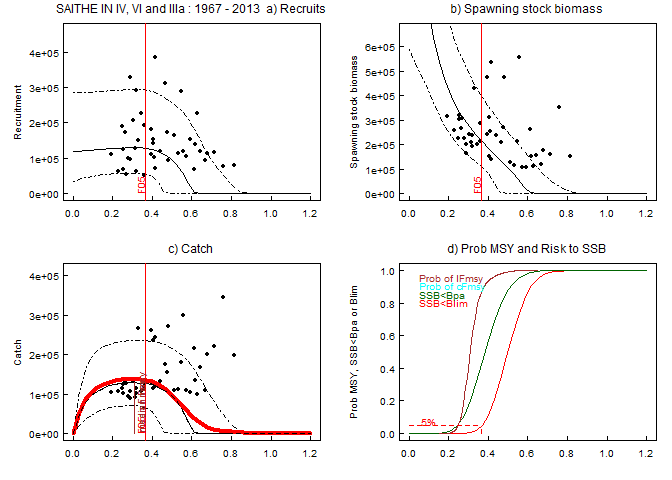
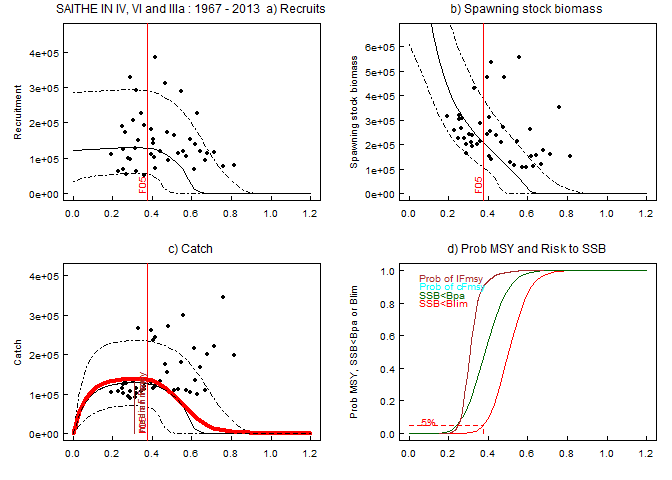
formatting readme and add set seed

diff --git a/README.md b/README.md
@@ -23,17 +23,17 @@ You are welcome to:
 
 # Preamble
 
-This document is as much as the `msy`-package itself still in
-developement.
+This document is as much as the `msy`-package itself a living document.
 
 The origin of this package is from an intial coding by John Simmonds
 which was restructured by Colin Millar into an R-package with additional
 development, including coding the Buckland method. Einar Hjörleifsson
 compartmentalized the structure of the code as well as providing the
-output of the analysis in a more structured format.
+output of the analysis in a more structured format. Further
+contributions have been made by Carmen Fernandez, Max Cardinale, Martin
+Pastoors and Niels Hintzen.
 
-At this moment there is no person responsible for the maintenance of the
-package, including the above mentioned names.
+The package is currently being maintianed by the ICES secretariat.
 
 # Installation
 
@@ -125,17 +125,19 @@ This can be done in one go with the following code:
 
 ``` r
 FIT <- eqsr_fit(icesStocks$saiNS,
-                nsamp = 1000,
-                models = c("Ricker", "Segreg"))
+  nsamp = 1000,
+  models = c("Ricker", "Segreg")
+)
 SIM <- eqsim_run(FIT,
-                 bio.years = c(2004, 2013),
-                 sel.years = c(2004, 2013),
-                 Fcv = 0.24,
-                 Fphi = 0.42,
-                 Blim = 106000,
-                 Bpa = 200000,
-                 Fscan = seq(0, 1.2, len = 40),
-                 verbose = FALSE)
+  bio.years = c(2004, 2013),
+  sel.years = c(2004, 2013),
+  Fcv = 0.24,
+  Fphi = 0.42,
+  Blim = 106000,
+  Bpa = 200000,
+  Fscan = seq(0, 1.2, len = 40),
+  verbose = FALSE
+)
 ```
 
 The stock recruitment function can be plotted by:
@@ -146,28 +148,27 @@ eqsr_plot(FIT,n=2e4)
 
 ![](README_files/figure-gfm/plot_fit-1.png)<!-- -->
 
-Summary of the key results can be obtained
-by:
+Summary of the key results can be obtained by:
 
 ``` r
 SIM$Refs
 ```
 
 ``` 
-                  F05          F10          F50    medianMSY      meanMSY
-catF     3.675774e-01 3.940308e-01 4.990954e-01 3.076923e-01 3.076923e-01
-lanF               NA           NA           NA 3.076923e-01 3.076923e-01
-catch    1.265605e+05 1.239753e+05 9.571695e+04 1.284774e+05 1.284774e+05
-landings           NA           NA           NA 1.284774e+05 1.284774e+05
-catB     2.126939e+05 1.909209e+05 1.057146e+05 2.684618e+05 2.684618e+05
-lanB               NA           NA           NA 2.684618e+05 2.684618e+05
-             FCrash05     FCrash50
-catF     4.923077e-01    0.6153846
-lanF               NA           NA
-catch    9.907078e+04 3703.8785837
-landings           NA           NA
-catB     1.113816e+05 3091.0668735
-lanB               NA           NA
+                  F05          F10          F50    medianMSY      meanMSY     FCrash05
+catF     3.745647e-01 4.026805e-01 5.044966e-01 3.076923e-01 3.076923e-01 4.923077e-01
+lanF               NA           NA           NA 3.076923e-01 3.076923e-01           NA
+catch    1.269144e+05 1.240353e+05 9.676671e+04 1.291093e+05 1.291093e+05 1.019306e+05
+landings           NA           NA           NA 1.291093e+05 1.291093e+05           NA
+catB     2.070386e+05 1.842420e+05 1.058974e+05 2.685973e+05 2.685973e+05 1.150066e+05
+lanB               NA           NA           NA 2.685973e+05 2.685973e+05           NA
+             FCrash50
+catF        0.6461538
+lanF               NA
+catch    1986.8567802
+landings           NA
+catB     1551.6680629
+lanB               NA
 ```
 
 Summary plots conditioned on maximizing **catch** are obtained by:
@@ -222,15 +223,14 @@ long as the bootstrap resampling procedure provides an adequate
 approximation to the empirical distribution of the stock and recruit
 pairs.
 
-The arguments to the fitting function
-    are
+The arguments to the fitting function are
 
 ``` r
 args(eqsr_fit)
 ```
 
-    function (stk, nsamp = 5000, models = c("Ricker", "Segreg", "Bevholt"), 
-        id.sr = FLCore::name(stk), remove.years = NULL) 
+    function (stk, nsamp = 1000, models = c("Ricker", "Segreg", "Bevholt"), 
+        id.sr = FLCore::name(stk), remove.years = NULL, rshift = 0) 
     NULL
 
 Here:
@@ -252,28 +252,29 @@ The results from the fitting process are returned to the user as a list:
 str(FIT, 2, give.attr=FALSE)
 ```
 
-    List of 6
+    List of 5
      $ sr.sto:'data.frame': 1000 obs. of  4 variables:
-      ..$ a    : num [1:1000] 0.872 1.001 1.157 1.172 1.429 ...
-      ..$ b.b  : num [1:1000] 164413 126196 106372 111533 88874 ...
-      ..$ cv   : num [1:1000] 0.494 0.51 0.46 0.565 0.462 ...
-      ..$ model: chr [1:1000] "Segreg" "Segreg" "Segreg" "Segreg" ...
-     $ sr.det:'data.frame': 2 obs. of  6 variables:
+      ..$ a    : num [1:1000] 1.16 1.603 1.034 2.147 0.919 ...
+      ..$ b    : num [1:1000] 9.59e+04 8.70e+04 1.28e+05 5.40e-06 1.59e+05 ...
+      ..$ cv   : num [1:1000] 0.475 0.502 0.435 0.48 0.503 ...
+      ..$ model: chr [1:1000] "Segreg" "Segreg" "Segreg" "Ricker" ...
+     $ sr.det:'data.frame': 2 obs. of  7 variables:
       ..$ a    : num [1:2] 1.44 1.21
       ..$ b    : num [1:2] 3.74e-06 1.06e+05
       ..$ cv   : num [1:2] 0.521 0.492
+      ..$ llik : num [1:2] -33.7 -31.2
       ..$ model: chr [1:2] "Ricker" "Segreg"
-      ..$ n    : int [1:2] 142 858
-      ..$ prop : num [1:2] 0.142 0.858
-     $ pRec  : num [1:1000, 1:44] 93482 107228 123056 125553 127043 ...
+      ..$ n    : 'table' int [1:2(1d)] 127 873
+      ..$ prop : 'table' num [1:2(1d)] 0.127 0.873
      $ stk   :Formal class 'FLStock' [package "FLCore"] with 20 slots
-     $ rby   :'data.frame': 44 obs. of  7 variables:
+     $ rby   :'data.frame': 44 obs. of  8 variables:
       ..$ year        : int [1:44] 1967 1968 1969 1970 1971 1972 1973 1974 1975 1976 ...
       ..$ rec         : num [1:44] 291836 327932 171373 152852 148741 ...
       ..$ ssb         : num [1:44] 194228 164413 263979 311949 429606 ...
       ..$ fbar        : num [1:44] 0.322 0.291 0.262 0.408 0.329 ...
       ..$ landings    : num [1:44] 113751 88326 130588 234962 265381 ...
       ..$ catch       : num [1:44] 113751 88326 130588 234962 265381 ...
+      ..$ ssb_lag     : num [1:44] 3 3 3 3 3 3 3 3 3 3 ...
       ..$ remove.years: logi [1:44] FALSE FALSE FALSE FALSE FALSE FALSE ...
      $ id.sr : chr "SAITHE IN IV, VI and IIIa : 1967 - 2013"
 
@@ -301,9 +302,9 @@ FIT$sr.det
 ```
 
 ``` 
-         a            b        cv  model   n  prop
-1 1.443935 3.743708e-06 0.5207246 Ricker 142 0.142
-2 1.212853 1.062150e+05 0.4917162 Segreg 858 0.858
+         a            b        cv      llik  model   n  prop
+1 1.443935 3.743708e-06 0.5207246 -33.72180 Ricker 127 0.127
+2 1.212853 1.062150e+05 0.4917162 -31.19974 Segreg 873 0.873
 ```
 
 Here the a, b and cv are the estimated parameters from the deterministic
@@ -363,8 +364,7 @@ that if there is no variability in these quantities in the stock object
 then no variability will be taken in to the simulations. The user can
 also specify using average values for these parameters.
 
-The arguments to the simulation function
-    are:
+The arguments to the simulation function are:
 
 ``` r
 args(eqsim_run)
@@ -375,7 +375,8 @@ args(eqsim_run)
         sel.const = FALSE, Fscan = seq(0, 2, len = 40), Fcv = 0, 
         Fphi = 0, SSBcv = 0, rhologRec = TRUE, Blim, Bpa, recruitment.trim = c(3, 
             -3), Btrigger = 0, Nrun = 200, process.error = TRUE, 
-        verbose = TRUE, extreme.trim = c(0, 1)) 
+        verbose = TRUE, extreme.trim = c(0, 1), R.initial = mean(fit$rby$rec), 
+        keep.sims = FALSE) 
     NULL
 
 where:
@@ -420,7 +421,7 @@ list
 str(SIM, 2, give.attr = FALSE)
 ```
 
-    List of 11
+    List of 12
      $ ibya         :List of 7
       ..$ Mat  : num [1:8, 1:10] 0 0.15 0.7 0.9 1 1 1 1 0 0.15 ...
       ..$ M    : num [1:8, 1:10] 0.2 0.2 0.2 0.2 0.2 0.2 0.2 0.2 0.2 0.2 ...
@@ -429,45 +430,54 @@ str(SIM, 2, give.attr = FALSE)
       ..$ west : num [1:8, 1:10] 0.964 1.116 1.382 1.74 2.722 ...
       ..$ weca : num [1:8, 1:10] 0.964 1.116 1.382 1.74 2.722 ...
       ..$ sel  : num [1:8, 1:10] 0.315 1.006 1.186 1.493 1.529 ...
-     $ rbya         :List of 1
-      ..$ ferr: num [1:40, 1:50, 1:1000] -0.325 -0.325 -0.325 -0.325 -0.325 ...
-     $ rby          :'data.frame':  44 obs. of  7 variables:
+     $ rbya         :List of 8
+      ..$ ferr    : num [1:40, 1:50, 1:1000] -0.28 -0.28 -0.28 -0.28 -0.28 ...
+      ..$ ssb     : num [1:40, 1:50, 1:1000] 1463551 1095079 854467 690074 573662 ...
+      ..$ catch   : num [1:40, 1:50, 1:1000] 0 26722 43462 54887 63368 ...
+      ..$ landings: num [1:40, 1:50, 1:1000] 0 26722 43462 54887 63368 ...
+      ..$ rec     : num [1:40, 1:50, 1:1000] 142049 142049 142049 142049 142049 ...
+      ..$ srmodels:'data.frame':    1000 obs. of  4 variables:
+      ..$ Ftarget : num [1:40] 0 0.0308 0.0615 0.0923 0.1231 ...
+      ..$ simyears: int [1:50] 151 152 153 154 155 156 157 158 159 160 ...
+     $ rby          :'data.frame':  44 obs. of  8 variables:
       ..$ year        : int [1:44] 1967 1968 1969 1970 1971 1972 1973 1974 1975 1976 ...
       ..$ rec         : num [1:44] 291836 327932 171373 152852 148741 ...
       ..$ ssb         : num [1:44] 194228 164413 263979 311949 429606 ...
       ..$ fbar        : num [1:44] 0.322 0.291 0.262 0.408 0.329 ...
       ..$ landings    : num [1:44] 113751 88326 130588 234962 265381 ...
       ..$ catch       : num [1:44] 113751 88326 130588 234962 265381 ...
+      ..$ ssb_lag     : num [1:44] 3 3 3 3 3 3 3 3 3 3 ...
       ..$ remove.years: logi [1:44] FALSE FALSE FALSE FALSE FALSE FALSE ...
      $ rbp          :'data.frame':  160 obs. of  10 variables:
       ..$ Ftarget : num [1:160] 0 0.0308 0.0615 0.0923 0.1231 ...
       ..$ variable: chr [1:160] "Recruitment" "Recruitment" "Recruitment" "Recruitment" ...
-      ..$ p025    : num [1:160] 24692 30125 34638 38486 41622 ...
-      ..$ p05     : num [1:160] 34543 40566 45020 48304 50920 ...
-      ..$ p25     : num [1:160] 79877 81924 84214 86068 87716 ...
-      ..$ p50     : num [1:160] 119040 120086 121513 122798 124026 ...
-      ..$ p75     : num [1:160] 171945 172446 173249 174338 175417 ...
-      ..$ p95     : num [1:160] 284900 285154 285648 286480 287147 ...
-      ..$ p975    : num [1:160] 334582 334841 335204 336281 337455 ...
+      ..$ p025    : num [1:160] 18891 24962 31631 35952 39827 ...
+      ..$ p05     : num [1:160] 33794 39879 44315 47818 50510 ...
+      ..$ p25     : num [1:160] 83657 85233 86814 88085 89255 ...
+      ..$ p50     : num [1:160] 121748 122725 123805 124943 125985 ...
+      ..$ p75     : num [1:160] 173973 174807 175528 176334 177257 ...
+      ..$ p95     : num [1:160] 286156 286896 287753 289175 289647 ...
+      ..$ p975    : num [1:160] 336886 338161 339625 340201 340736 ...
       ..$ Mean    : num [1:160] NA NA NA NA NA NA NA NA NA NA ...
      $ Blim         : num 106000
      $ Bpa          : num 2e+05
-     $ Refs         : num [1:6, 1:7] 3.68e-01 NA 1.27e+05 NA 2.13e+05 ...
+     $ Refs         : num [1:6, 1:7] 3.75e-01 NA 1.27e+05 NA 2.07e+05 ...
      $ pProfile     :'data.frame':  1104 obs. of  3 variables:
-      ..$ Ftarget : num [1:1104] 0.153 0.154 0.155 0.156 0.157 ...
-      ..$ value   : num [1:1104] 4.23e-07 9.80e-07 1.71e-06 2.65e-06 3.84e-06 ...
+      ..$ Ftarget : num [1:1104] 0.153 0.154 0.156 0.157 0.158 ...
+      ..$ value   : num [1:1104] 4.46e-07 1.04e-06 1.84e-06 2.88e-06 4.23e-06 ...
       ..$ variable: chr [1:1104] "pFmsyCatch" "pFmsyCatch" "pFmsyCatch" "pFmsyCatch" ...
      $ id.sim       : chr "SAITHE IN IV, VI and IIIa : 1967 - 2013"
      $ refs_interval:'data.frame':  1 obs. of  8 variables:
       ..$ FmsyMedianC     : num 0.308
-      ..$ FmsylowerMedianC: num 0.199
-      ..$ FmsyupperMedianC: num 0.404
+      ..$ FmsylowerMedianC: num 0.193
+      ..$ FmsyupperMedianC: num 0.41
       ..$ FmsyMedianL     : num 0.308
-      ..$ FmsylowerMedianL: num 0.199
-      ..$ FmsyupperMedianL: num 0.404
-      ..$ F5percRiskBlim  : num 0.368
+      ..$ FmsylowerMedianL: num 0.193
+      ..$ FmsyupperMedianL: num 0.41
+      ..$ F5percRiskBlim  : num 0.375
       ..$ Btrigger        : num 0
-     $ Refs2        : num [1:6, 1:9] 3.68e-01 NA 1.27e+05 NA 2.13e+05 ...
+     $ rhologRec    : num [1:1000] 0.314 0.314 0.325 0.428 0.354 ...
+     $ Refs2        : num [1:6, 1:9] 3.75e-01 NA 1.27e+05 NA 2.07e+05 ...
 
 where
 
@@ -495,10 +505,10 @@ t(SIM$refs_interval)
 
     ##                       [,1]
     ## FmsyMedianC      0.3075377
-    ## FmsylowerMedianC 0.1989950
-    ## FmsyupperMedianC 0.4040201
+    ## FmsylowerMedianC 0.1929648
+    ## FmsyupperMedianC 0.4100503
     ## FmsyMedianL      0.3075377
-    ## FmsylowerMedianL 0.1989950
-    ## FmsyupperMedianL 0.4040201
-    ## F5percRiskBlim   0.3675774
+    ## FmsylowerMedianL 0.1929648
+    ## FmsyupperMedianL 0.4100503
+    ## F5percRiskBlim   0.3745647
     ## Btrigger         0.0000000
